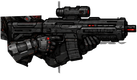
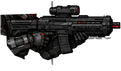
全身统一素体母本(参考11):头/躯干/腿一套比例(修'上宽下瘦'),持枪链0.23缩放跨母本挂接;蹲行腿摆慢21%速度不变;跪姿头部世界空间跟踪(视线不再偏下)

diff --git a/src/entities/CharacterRig.js b/src/entities/CharacterRig.js
@@ -78,11 +78,11 @@ export class CharacterRig {
     //   走出±28px 的水平跨步——腿始终是弯的下蹲形态,但脚是前后迈而非上下抖。
     if (cr > 0) {
       const mb = Math.min(1, gait * 1.3)
-      this._crouchDrop = 26 // 蹲行与跪姿同一低度(素体腿型:髋高48-26=22≈大腿长21.5,后膝可触地)
+      this._crouchDrop = 30 // 蹲行与跪姿同一低度(素体全身:髋高53-30=23≈大腿长23,后膝可触地)
       this._crouchPitch = L(10, 16, mb)
       // 跪姿(静止):真军姿单膝跪=前膝抬高(高于髋,大腿-108°)、小腿完全垂直(sF=108→总角0°)、脚掌平踩,
       // 后膝触地小腿后折——素体腿长(21.5/28.5)下几何恰好闭合
-      let tF = -108, sF = 108, tB = 10, sB = 80
+      let tF = -108, sF = 99, tB = 10, sB = 80
       if (mb > 0.01) {
         // 低位潜行(双骨 IK):双脚钉住地面沿水平 ±24px 往返(迈步腿微抬 5px),
         // 由 IK 反解大小腿角——前伸腿伸展、收回腿深折于臀下,腿形反差即"蹲着走"
@@ -90,8 +90,8 @@ export class CharacterRig {
         const A = 24 // 步幅(用户定版:±24 形态最好看,勿加大)
         // 两脚踩同一条 ±A 居中轨道(对称交替);IK 起点用各自真实胯点(前+4/后-5),
         // 不要给脚的轨道加错位偏置——那会造成"一腿前迈大后迈小、另一腿相反"的不对称
-        const ikF = this._legIK(2, hipY, A * Math.sin(ph), -4 * Math.max(0, Math.cos(ph)), 21.5, 28.5)
-        const ikB = this._legIK(-2, hipY, A * Math.sin(ph + Math.PI), -4 * Math.max(0, Math.cos(ph + Math.PI)), 21.5, 28.5)
+        const ikF = this._legIK(2, hipY, A * Math.sin(ph), -4 * Math.max(0, Math.cos(ph)), 23, 30.5)
+        const ikB = this._legIK(-2, hipY, A * Math.sin(ph + Math.PI), -4 * Math.max(0, Math.cos(ph + Math.PI)), 23, 30.5)
         tF = L(tF, ikF.thigh / DEG, mb); sF = L(sF, ikF.shinLocal / DEG, mb)
         tB = L(tB, ikB.thigh / DEG, mb); sB = L(sB, ikB.shinLocal / DEG, mb)
       }
@@ -108,9 +108,10 @@ export class CharacterRig {
       P.arm_back.localAngle = 55 * DEG + Math.sin(ph + Math.PI) * 14 * DEG * gait * (1 - cr * 0.7)
     }
     P.torso.localAngle = this.lean + cr * (this._crouchDrop !== undefined ? this._crouchPitch : 10) * DEG
-    // 头部随瞄:0.55 跟随度,抬枪 40° 时头抬约 22°——"眼睛跟着准星走"(战火英雄同款)
+    // 头部随瞄:0.55 跟随度,并减去躯干自身俯仰(世界空间跟踪)——
+    // 否则跪姿躯干前倾 16° 会带着头一起低下去,枪平指前方而视线偏下(用户实测抓到的缺陷)
     const pitch = this.aimLocal
-    P.head.localAngle = Phaser.Math.Clamp(pitch * 0.55, -32 * DEG, 36 * DEG)
+    P.head.localAngle = Phaser.Math.Clamp(pitch * 0.55, -32 * DEG, 36 * DEG) - P.torso.localAngle
 
     // FK 求解
     for (const name of this.order) {

diff --git a/src/entities/Player.js b/src/entities/Player.js
@@ -150,8 +150,8 @@ export class Player {
       Math.min(1, dt * (this.jumpPendingUntil > now ? 26 : 14)))
     this.rig.crouch = this.crouchT
     this.rig.facing = facing
-    // 肩点=瞄准原点(母本v2实测:站立肩高72,下蹲随髋下沉27)
-    this.rig.aimAngle = Math.atan2(input.aimY - (this.y - 72 + this.crouchT * 27), input.aimX - this.x)
+    // 肩点=瞄准原点(素体实测:站立肩高79,下蹲随髋下沉30)
+    this.rig.aimAngle = Math.atan2(input.aimY - (this.y - 79 + this.crouchT * 30), input.aimX - this.x)
     this.rig.lean = this.lean
     this.rig.setPosition(this.x, this.y)
     this.rig.updatePose()

diff --git a/docs/开发日志.md b/docs/开发日志.md
@@ -2,6 +2,15 @@
 
 > 倒序:最新的在上面。每次工作会话记一条:做了什么、验证结果、遗留问题。
 
+## 2026-07-14 · 续2:全身统一到素体母本(上下身比例自洽)+蹲行慢摆+跪姿视线修复
+- **'上宽下瘦'的病根**:头/躯干/手臂来自母本v2(壮汉型),腿来自参考11(修长型)——两套人设拼一身,怎么加宽都貌合神离。**修复=头/躯干/腿全部改切自参考11**(一套设计一个身材,S2X_BODY 0.1305,1x 高 100/躯干宽 27/髋高 53);持枪链(小臂枪/大臂/肩甲)保留母本v2 并缩到 0.23(61 长,匹配新身材),经 pivotJoint/parentJoint 分离实现跨母本挂接(肩点=参考11 躯干上的 shoulder11)。
+- 躯干=参考11 全身减头减腿:背手的手臂烤进躯干(静止被持枪链盖住,露出部分读作背部装备),胸前天然完整(素体无遮挡,不再需要臂影补丁)。
+- **蹲行腿摆放慢**(用户点名):crouchCycleLen 112→136(腿摆慢约21%),移动速度不变;代价是每步几px 隐性滑步,蹲速 224 下不可见。
+- **跪姿视线偏下修复**:头部角度改为世界空间跟踪(减去躯干自身俯仰)——跪姿躯干前倾 16° 不再带着头低下去,枪平指前方时视线也平指前方。
+- 跪姿/IK/瞄准原点随新身材重解:L(23,30.5)/跪沉 30/sF 99/肩高 79。
+- 验收(冻结帧):站姿(全身一套比例)✓ 跪姿(视线水平)✓ 走路中帧 ✓ 持枪链 0.23 缩放后枪回肩位不再盖脸 ✓。
+- 管线沉淀:PARTS 支持 src/s2x/pivotJoint/parentJoint 每部件独立母本与跨母本挂接——多图拼装角色的通用能力。
+
 ## 2026-07-14 · 续:肩甲固定层 + 腿部加宽
 - **肩部'贴纸'感修复**:新增 pauldron 部件(肩甲/三角肌护板)——静止长在躯干上(z=11 最上层)盖住肩关节,手臂(arm_upper)从它底下转出;之前肩甲跟着手臂整体转=贴纸感。至此肩部分层=战火英雄同款:躯干→小臂枪(9)→大臂(10)→固定肩甲(11)。静止时肩甲与大臂顶部像素重合(同源切件),零缝。
 - **腿部加宽**(修'牛仔裤细腿'):切件脚本新增 widen 各向异性加宽,大腿 ×1.35(11→15)、小腿+靴 ×1.3(20→26)——装甲腿分量与重装上身匹配;高度/关节不变,IK 无需动。

diff --git a/docs/素材许可.md b/docs/素材许可.md
@@ -8,7 +8,7 @@
 | 步枪立绘(AI生成) | docs/风格参考/ai候选/c4_rifle.jpg | 同上 | 同上 | 无 | (已弃用) | 2026-07-13 |
 | 玩家角色母本(用户提供,用户声明为 AI 生成) | docs/风格参考/参考8-切件母本.png | 用户桌面文件,用户声明由 AI 生成 | 按用户声明登记;仅取角色像素,图中背景/HUD(疑似截图合成)未使用 | 无 | (已被母本v2取代) | 2026-07-13 |
 | **玩家角色母本 v2(现役)** | docs/风格参考/参考9-母本v2.png | 用户本人 ChatGPT 账号以 Imagine 2 生成(会话"放大清晰人物图像"),经浏览器自动化下载原图 1122×1402 | 用户自己生成的 AI 内容;切件多边形/关节坐标留档于 tools/cut-player.mjs | 无 | 切件为 player_head/torso/armgun/thigh_f/shin_f/thigh_b/shin_b 共 7 件 | 2026-07-13 |
-| **素体母本黑红(现役,腿部专用)** | docs/风格参考/参考11-素体母本黑红.png | 用户 ChatGPT 账号 Imagine 2 生成(prompt 锁定配色后成功,899×1750) | 用户自己生成的 AI 内容 | 无 | 切件为 player_thigh_f/shin_f(后腿为其调暗副本) | 2026-07-14 |
+| **素体母本黑红(现役,腿部专用)** | docs/风格参考/参考11-素体母本黑红.png | 用户 ChatGPT 账号 Imagine 2 生成(prompt 锁定配色后成功,899×1750) | 用户自己生成的 AI 内容 | 无 | 切件为 player_head/torso/thigh_f/shin_f(后腿为调暗副本)——主体母本 | 2026-07-14 |
 | 素体尝试图(白色配色,未用于玩家) | docs/风格参考/参考10-素体母本.png | 用户 ChatGPT 账号 Imagine 2 生成(一致性偏离,配色错) | 用户自己生成的 AI 内容 | 无 | 备用(未来友军/皮肤候选) | 2026-07-13 |
 | 同风格人物 A/B(敌人母本候选,未使用) | docs/风格参考/ai候选/同风格人物A-持枪准备.png、同风格人物B-虚拟界面.png | 同上会话生成 | 同上 | 无 | 备用(机器人/敌人重做母本候选) | 2026-07-13 |
 
